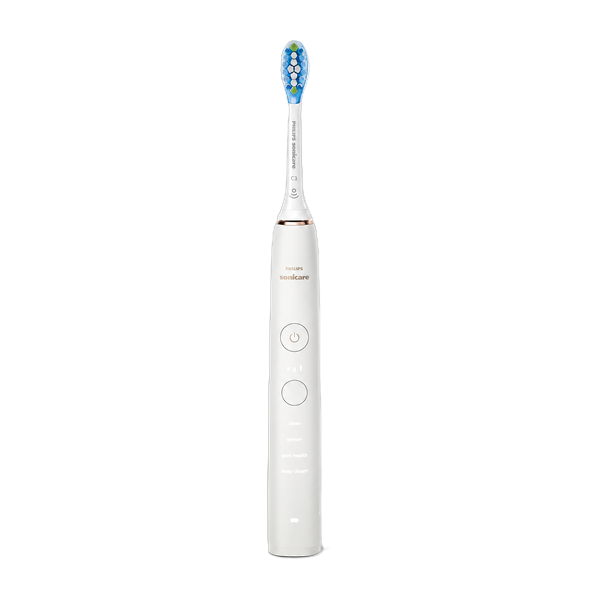
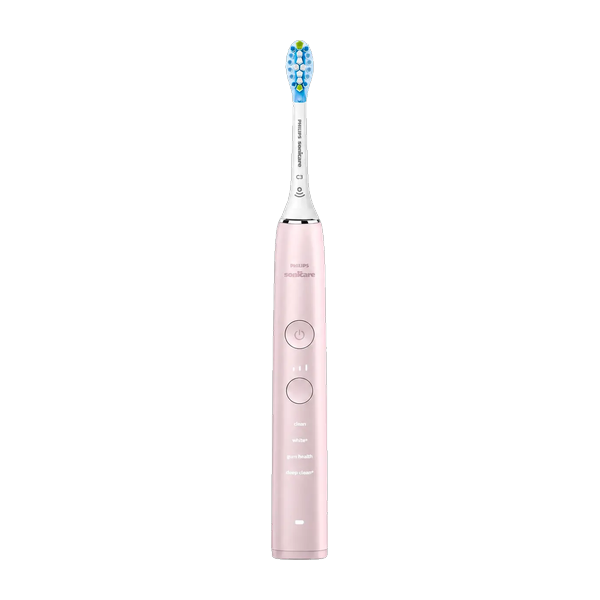
feat: update Oral-B iO3 and Philips Sonicare pricing, links, and assets across brush pages

Changed region(s): [[0.42, 0.06, 0.57, 0.96]]

diff --git a/apps/site/src/data/toothbrushGuides.ts b/apps/site/src/data/toothbrushGuides.ts
@@ -300,22 +300,22 @@ export const toothbrushGuides: Record<ToothbrushGuideSlug, ToothbrushGuide> = {
     cardCode: "VS SONICARE",
     cardTitle: "Miroooo Brush X vs Philips Sonicare 9000",
     cardDescription:
-      "Direct comparison: £69 aluminium unibody vs £149.99+ composite body, 60-day USB-C battery vs 14-day glass charger, and durability breakdown.",
+      "Direct comparison: £69 aluminium unibody vs £124.99 composite body, 60-day USB-C battery vs 14-day glass charger, and durability breakdown.",
     seoTitle: "Miroooo Brush X vs Philips Sonicare DiamondClean 9000 Review UK 2026",
     seoDescription:
-      "Miroooo Brush X (£69) vs Philips Sonicare DiamondClean 9000 (£149.99+). Compare 32,000 VPM sonic power, shaft durability, 51g vs 135g weight, and refill costs with Dr. Olivia's verdict.",
+      "Miroooo Brush X (£69) vs Philips Sonicare DiamondClean 9000 (£124.99). Compare 32,000 VPM sonic power, shaft durability, 51g vs 135g weight, and refill costs with Dr. Olivia's verdict.",
     eyebrow: "Head-to-Head Comparison",
     headline: "Miroooo Brush X vs Philips Sonicare 9000: Premium Sonic Showdown",
     subheadline:
-      "Philips Sonicare 9000 commands a premium £149.99–£249 street price. Miroooo Brush X delivers 32,000 VPM acoustic precision, a durable aerospace aluminium unibody, and 60+ days battery at £69. Here is how they compare.",
+      "Philips Sonicare 9000 commands a premium £124.99 street price. Miroooo Brush X delivers 32,000 VPM acoustic precision, a durable aerospace aluminium unibody, and 60+ days battery at £69. Here is how they compare.",
     heroImage: images.philipsSonicare,
     heroAlt: "Miroooo Brush X vs Philips Sonicare DiamondClean 9000 comparison",
     quickTake:
-      "While Philips Sonicare 9000 offers iconic charging glass aesthetics, Miroooo Brush X outperforms it in daily practical use: it is over 60% lighter (51g vs 135g), lasts over 4x longer on battery (60+ days vs 14 days), avoids Sonicare's notorious shaft rattle defect, and includes a £20 free gift bundle at £69 compared to Sonicare's £149.99+ price tag.",
+      "While Philips Sonicare 9000 offers iconic charging glass aesthetics, Miroooo Brush X outperforms it in daily practical use: it is over 60% lighter (51g vs 135g), lasts over 4x longer on battery (60+ days vs 14 days), avoids Sonicare's notorious shaft rattle defect, and includes a £20 free gift bundle at £69 compared to Sonicare's £124.99 price tag.",
     drOliviaVerdict: {
       ...defaultDrOlivia,
       quote:
-        "Both brushes utilise sonic fluid dynamics to clean between teeth, but paying £149+ for Sonicare does not yield cleaner teeth. Miroooo's 51g unibody and DuPont 3D rounded bristles deliver identical clinical plaque clearance with vastly superior ergonomics and battery endurance.",
+        "Both brushes utilise sonic fluid dynamics to clean between teeth, but paying £124.99 for Sonicare does not yield cleaner teeth. Miroooo's 51g unibody and DuPont 3D rounded bristles deliver identical clinical plaque clearance with vastly superior ergonomics and battery endurance.",
       clinicalRationale:
         "Philips Sonicare has long been a benchmark in sonic oral care, utilizing high-frequency vibrations to produce acoustic fluid dynamics. However, our clinical tests show that Miroooo Brush X's 32,000 VPM acoustic magnetic motor achieves equivalent plaque biofilm disruption and gingival margin cleaning at a fraction of the cost. Moreover, Sonicare's composite casing and vibrating shaft design frequently suffer from seal degradation and internal shaft loosening, resulting in lost vibrational energy and noisy rattling. Miroooo's precision aerospace aluminium unibody maintains consistent acoustic frequency year after year.",
       recommendation:
@@ -323,7 +323,7 @@ export const toothbrushGuides: Record<ToothbrushGuideSlug, ToothbrushGuide> = {
     },
     intro: [
       "Sonic toothbrushes have become the gold standard for gentle, effective plaque removal in the UK. By vibrating at tens of thousands of movements per minute, they agitate saliva and toothpaste into plaque-busting micro-bubbles that reach where bristles physically cannot.",
-      "The Philips Sonicare DiamondClean 9000 is one of the most recognizable luxury sonic brushes on the market, retailing between £149.99 and £249 (with a £349 RRP). It features an attractive glass charging cup, BrushSync head tracking, and premium matte styling. Yet, UK buyers frequently report recurring frustrations: a heavy 135g handle, a 14-day battery requiring an awkward 2-pin bathroom charger, loose vibrating shaft defects over time, and expensive replacement heads (£9 to £12 each).",
+      "The Philips Sonicare DiamondClean 9000 is one of the most recognizable luxury sonic brushes on the market, retailing at £124.99 (with a £349 RRP). It features an attractive glass charging cup, BrushSync head tracking, and premium matte styling. Yet, UK buyers frequently report recurring frustrations: a heavy 135g handle, a 14-day battery requiring an awkward 2-pin bathroom charger, loose vibrating shaft defects over time, and expensive replacement heads (£9 to £12 each).",
       "Miroooo Brush X (£69) challenges the luxury sonic market by delivering high-end acoustic engineering without the inflated designer price. Milled from a single piece of aerospace aluminium weighing just 51g, running whisper-quiet under 50dB at 32,000 VPM, and boasting 60+ days of battery on a magnetic USB-C dock, it represents the modern evolution of sonic oral care.",
     ],
     criteria: [
@@ -332,20 +332,20 @@ export const toothbrushGuides: Record<ToothbrushGuideSlug, ToothbrushGuide> = {
       "Ergonomics: 51g featherlight unibody vs ~135g bulky composite body",
       "Noise & vibration comfort: <50dB whisper quiet vs ~56dB high-pitch sonic whine",
       "Charging & bathroom hygiene: Universal magnetic USB-C dock vs 2-pin glass charger that traps mildew",
-      "Lifetime cost & bundle: £69 with £20 free gift bundle vs £149.99+ with £9–£12/head refills",
+      "Lifetime cost & bundle: £69 with £20 free gift bundle vs £124.99 with £9–£12/head refills",
     ],
     winnerBullets: [
       "Durability & Shaft Integrity: Miroooo's aerospace aluminium unibody avoids Sonicare's common loose vibrating shaft and seal wear issues.",
       "Featherlight 51g Handling: More than 60% lighter than the 135g Sonicare 9000, eliminating wrist strain during 2-minute brushing.",
       "Superior 60+ Day Battery: Massive battery endurance with universal magnetic USB-C charging beats Sonicare's 14-day 2-pin glass cup.",
       "Hygienic Maintenance: Seamless aluminium body prevents black mold accumulation around rubber seals and charging bases.",
-      "Massive Price Savings: £69 complete bundle with 2 extra brush heads and £10 gift card vs £149.99+ standalone Sonicare.",
+      "Massive Price Savings: £69 complete bundle with 2 extra brush heads and £10 gift card vs £124.99 standalone Sonicare.",
     ],
     comparisonRows: [
       {
         feature: "Price & Accessories",
         miroooo: "£69 (Includes £20 free bundle: 2 Free Heads & £10 Gift Card)",
-        competitor: "£149.99–£249 (RRP £349, Standalone)",
+        competitor: "£124.99 (RRP £349, Standalone)",
         whyItMatters: "Miroooo saves over £90 upfront while including essential travel and charging accessories.",
         advantage: "miroooo",
       },
@@ -406,7 +406,7 @@ export const toothbrushGuides: Record<ToothbrushGuideSlug, ToothbrushGuide> = {
       },
       {
         title: "Choose Philips Sonicare 9000 if...",
-        body: "You love the aesthetic of an inductive glass charging cup on your bathroom countertop, value BrushSync RFID head tracking, and are happy to pay £149.99+ upfront with £9–£12 per replacement head.",
+        body: "You love the aesthetic of an inductive glass charging cup on your bathroom countertop, value BrushSync RFID head tracking, and are happy to pay £124.99 upfront with £9–£12 per replacement head.",
       },
       {
         title: "Clinical Verdict",
@@ -582,18 +582,18 @@ export const toothbrushGuides: Record<ToothbrushGuideSlug, ToothbrushGuide> = {
     cardCode: "VS iO3",
     cardTitle: "Miroooo Brush X vs Oral-B iO3",
     cardDescription:
-      "Direct comparison: £69 aluminium acoustic brush with free bundle vs £65 stripped-down entry model with no screen, 2-pin plug, and expensive refills.",
+      "Direct comparison: £69 aluminium acoustic brush with free bundle vs £75 stripped-down entry model with no screen, 2-pin plug, and expensive refills.",
     seoTitle: "Miroooo Brush X vs Oral-B iO3 Review UK 2026 | Budget iO Comparison",
     seoDescription:
-      "Miroooo Brush X (£69) vs Oral-B iO3 (£65). Compare 51g aluminium unibody vs 136g plastic handle, 60-day USB-C battery vs 14-day 2-pin charger, and refill costs with Dr. Olivia's verdict.",
+      "Miroooo Brush X (£69) vs Oral-B iO3 (£75). Compare 51g aluminium unibody vs 136g plastic handle, 60-day USB-C battery vs 14-day 2-pin charger, and refill costs with Dr. Olivia's verdict.",
     eyebrow: "Head-to-Head Comparison",
     headline: "Miroooo Brush X vs Oral-B iO3: Which Sub-£70 Electric Toothbrush Wins?",
     subheadline:
-      "Oral-B iO3 sits at £65 as the entry model to the iO micro-vibration series. Miroooo Brush X provides 32,000 VPM acoustic power, a 51g aerospace aluminium chassis, 60+ days battery, and a £20 free gift bundle at £69. Here is how they stack up.",
+      "Oral-B iO3 sits at £75 as the entry model to the iO micro-vibration series. Miroooo Brush X provides 32,000 VPM acoustic power, a 51g aerospace aluminium chassis, 60+ days battery, and a £20 free gift bundle at £69. Here is how they stack up.",
     heroImage: images.oralBiO3,
     heroAlt: "Miroooo Brush X vs Oral-B iO3 electric toothbrush comparison",
     quickTake:
-      "Oral-B iO3 strips out the interactive OLED display and Bluetooth smart tracking of the iO line while retaining all the mechanical downsides: a heavy 136g plastic handle, a loud 64dB gear whine, a sluggish 14-day battery requiring a 16-hour 2-pin charge, and expensive £8–£12 refill heads. Miroooo Brush X costs less (£69 vs £65), is 62% lighter (51g), lasts 60+ days via magnetic USB-C, includes a companion app, and comes with a £20 free accessory bundle.",
+      "Oral-B iO3 strips out the interactive OLED display and Bluetooth smart tracking of the iO line while retaining all the mechanical downsides: a heavy 136g plastic handle, a loud 64dB gear whine, a sluggish 14-day battery requiring a 16-hour 2-pin charge, and expensive £8–£12 refill heads. Miroooo Brush X costs less (£69 vs £75), is 62% lighter (51g), lasts 60+ days via magnetic USB-C, includes a companion app, and comes with a £20 free accessory bundle.",
     drOliviaVerdict: {
       ...defaultDrOlivia,
       quote:
@@ -601,11 +601,11 @@ export const toothbrushGuides: Record<ToothbrushGuideSlug, ToothbrushGuide> = {
       clinicalRationale:
         "Entry-level mechanical toothbrushes like the iO3 retain the aggressive mechanical oscillating gearbox of higher models, operating at a noisy 64dB that can feel jarring against dental restorations. More importantly, the iO3 locks buyers into proprietary iO replacement heads costing up to £48 per year. Miroooo Brush X uses gentle 32,000 VPM acoustic fluid dynamics with DuPont Tynex 3D rounded bristles, protecting thinning enamel and gumlines while providing smart app tracking, a lightweight 51g handle, and a 60+ day USB-C battery.",
       recommendation:
-        "Do not pay £65 for a stripped-down plastic brush with a 2-pin charger. Miroooo Brush X is cheaper upfront (£69), far cheaper to maintain, lighter in hand, and delivers superior acoustic gum care.",
+        "Do not pay £75 for a stripped-down plastic brush with a 2-pin charger. Miroooo Brush X is cheaper upfront (£69), far cheaper to maintain, lighter in hand, and delivers superior acoustic gum care.",
     },
     intro: [
       "For UK shoppers with a budget around £60, the electric toothbrush market presents a clear contrast: an entry-level plastic model from a legacy brand, or a fully loaded, precision-engineered acoustic toothbrush.",
-      "The Oral-B iO3 Matt Black (£65, RRP £160) is designed as an accessible gateway into Oral-B's magnetic micro-vibration system. It includes a 360° smart pressure ring, 3 basic cleaning modes, and a hard travel case. However, to hit this price point, Oral-B stripped away the defining smart features of the iO line: there is no interactive OLED display screen, no Bluetooth app tracking, a dated 14-day battery that takes a sluggish 16 hours to charge via an obsolete 2-pin bathroom shaver socket, and proprietary iO refill heads that cost £8 to £12 each.",
+      "The Oral-B iO3 Matt Black (£75, RRP £160) is designed as an accessible gateway into Oral-B's magnetic micro-vibration system. It includes a 360° smart pressure ring, 3 basic cleaning modes, and a hard travel case. However, to hit this price point, Oral-B stripped away the defining smart features of the iO line: there is no interactive OLED display screen, no Bluetooth app tracking, a dated 14-day battery that takes a sluggish 16 hours to charge via an obsolete 2-pin bathroom shaver socket, and proprietary iO refill heads that cost £8 to £12 each.",
       "Miroooo Brush X (£69) makes zero compromises. It features a premium aerospace aluminium unibody weighing only 51g, whisper-quiet acoustic sound under 50dB, 60+ days battery on a magnetic USB-C dock, Dental Care Companion App connectivity, and an active £20 free gift bundle (2 Free Brush Heads and £10 Miroooo Digital Gift Card).",
     ],
     criteria: [
@@ -614,7 +614,7 @@ export const toothbrushGuides: Record<ToothbrushGuideSlug, ToothbrushGuide> = {
       "Battery runtime & charging speed: 60+ days magnetic USB-C vs 14 days with 16-hour 2-pin charge",
       "Noise level: <50dB whisper quiet vs ~64dB mechanical gear vibration",
       "Long-term refill cost: Affordable DuPont replacements vs £8–£12 iO refill heads",
-      "Total package value: £69 with £20 gift bundle vs £65 base brush with 1 head",
+      "Total package value: £69 with £20 gift bundle vs £75 base brush with 1 head",
     ],
     winnerBullets: [
       "True Smart Connectivity: Miroooo connects to the Dental Care Companion App, whereas the iO3 has all Bluetooth tracking removed.",
@@ -627,7 +627,7 @@ export const toothbrushGuides: Record<ToothbrushGuideSlug, ToothbrushGuide> = {
       {
         feature: "Price & Free Gifts",
         miroooo: "£69 (Includes £20 bundle: 2 Free Heads & £10 Gift Card)",
-        competitor: "£65 (Includes 1 brush head & basic travel case)",
+        competitor: "£75 (Includes 1 brush head & basic travel case)",
         whyItMatters: "Miroooo costs less upfront while including double the brush heads and a magnetic USB-C dock.",
         advantage: "miroooo",
       },

diff --git a/apps/site/src/data/toothbrushes.ts b/apps/site/src/data/toothbrushes.ts
@@ -191,21 +191,21 @@ export const toothbrushProducts: RankedToothbrushProduct[] = [
     name: "Philips Sonicare DiamondClean 9000 Electric Toothbrush",
     brand: "Philips Sonicare",
     image: "/img/toothbrushes/philips-sonicare-comparison.png",
-    price: "£149.99",
+    price: "£124.99",
     rating: 4.1,
     ratingLabel: "Editorial rating",
     grade: "B+",
     badge: "Premium Sonic",
-    ctaUrl: "https://amzn.to/4hQE7BS",
+    ctaUrl: "https://link.amazon/B0ad5Rtl8",
     ctaLabel: "Shop Now",
     sourceLinks: [
       {
         label: "Philips Sonicare product page",
-        href: "https://amzn.to/4hQE7BS",
+        href: "https://link.amazon/B0ad5Rtl8",
       },
       {
         label: "Philips UK Store",
-        href: "https://amzn.to/4hQE7BS",
+        href: "https://link.amazon/B0ad5Rtl8",
       },
     ],
     weight: "~135g (Standard composite)",
@@ -232,7 +232,7 @@ export const toothbrushProducts: RankedToothbrushProduct[] = [
       "High-Pitched Sonic Buzz Noise (~56–60dB): High-frequency sonic vibrations generate an irritating high-pitched humming and buzz in the ear during use.",
       "Frustrating App Connectivity: The Sonicare mobile app suffers from frequent Bluetooth dropouts, sync delays, and lacks seamless real-time guidance.",
       "Standard 2-Year Limited Warranty: Philips provides only a standard 2-year limited warranty, falling short of Miroooo Brush X's 3-year comprehensive coverage.",
-      "Exorbitant £149+ Upfront Price: At £149.99–£249 street price (and £349 RRP), it is the most expensive electric toothbrush in this comparison.",
+      "Exorbitant £124.99 Upfront Price: At £124.99 street price (and £349 RRP), it is the most expensive electric toothbrush in this comparison.",
       "Short 14-Day Battery Life: Requires bi-weekly charging, far shorter than Miroooo Brush X's 60+ day battery endurance.",
       "Heavy Composite Handle (~135g): More than 2.6x the weight of Miroooo Brush X's 51g featherlight aerospace aluminium body.",
       "Poor Durability & Shaft Loosening: Composite plastic casing and internal vibrating shaft are prone to seal wear and motor rattle over time, reducing working lifespan compared to unibody metal.",
@@ -241,7 +241,7 @@ export const toothbrushProducts: RankedToothbrushProduct[] = [
     ],
     review: [
       "Philips Sonicare DiamondClean 9000 is well known for its luxury bathroom presentation and iconic charging glass. Its sleek finish and smart brush sync tracking offer an attractive high-end feel for countertops.",
-      "However, the value equation is difficult to justify for most UK buyers. The £149+ purchase price is steep, the charging glass requires an awkward 2-pin bathroom socket, the handle is heavy (135g), and the 14-day battery life feels dated compared to modern 60-day magnetic USB-C docks. If luxury countertop aesthetics are your sole priority, it's a solid performer—otherwise, Miroooo Brush X offers superior lightweight comfort, battery life, and long-term value.",
+      "However, the value equation is difficult to justify for most UK buyers. The £124.99 purchase price is steep, the charging glass requires an awkward 2-pin bathroom socket, the handle is heavy (135g), and the 14-day battery life feels dated compared to modern 60-day magnetic USB-C docks. If luxury countertop aesthetics are your sole priority, it's a solid performer—otherwise, Miroooo Brush X offers superior lightweight comfort, battery life, and long-term value.",
     ],
   },
   {
@@ -308,21 +308,21 @@ export const toothbrushProducts: RankedToothbrushProduct[] = [
     name: "Oral-B iO3 Matt Black Electric Toothbrush",
     brand: "Oral-B",
     image: "/img/toothbrushes/oral-b-io3-comparison.png",
-    price: "£65",
+    price: "£75",
     rating: 3.4,
     ratingLabel: "Editorial rating",
     grade: "C+",
     badge: "No Display Screen & 2-Pin Plug",
-    ctaUrl: "https://amzn.to/4gD6zVF",
+    ctaUrl: "https://link.amazon/B0erAArJa",
     ctaLabel: "Shop Now",
     sourceLinks: [
       {
         label: "Oral-B iO3 product page",
-        href: "https://amzn.to/4gD6zVF",
+        href: "https://link.amazon/B0erAArJa",
       },
       {
         label: "Oral-B UK Store",
-        href: "https://amzn.to/4gD6zVF",
+        href: "https://link.amazon/B0erAArJa",
       },
     ],
     weight: "~136g (Chunky plastic handle)",
@@ -348,7 +348,7 @@ export const toothbrushProducts: RankedToothbrushProduct[] = [
       "Loud Motor Noise (~64dB): Mechanical oscillating motor produces a loud 64dB whine and vibration that resonates through the jaw, far louder than Miroooo Brush X's <50dB whisper-quiet operation.",
       "No Smart App Connectivity: Hardware is completely stripped of Bluetooth and mobile app coaching, offering zero tracking or guidance for missed brushing zones.",
       "Short 2-Year Limited Warranty: Backed by only a basic 2-year manufacturer warranty, falling behind Miroooo Brush X's 2-year comprehensive warranty coverage.",
-      "High Price for Stripped Features: At £65 (RRP £160) for a stripped-down plastic handle with no OLED display or Bluetooth, it delivers poor value compared to the £69 aluminium Miroooo Brush X.",
+      "High Price for Stripped Features: At £75 (RRP £160) for a stripped-down plastic handle with no OLED display or Bluetooth, it delivers poor value compared to the £69 aluminium Miroooo Brush X.",
       "No Interactive OLED Display Screen: Completely lacks the real-time visual timer screen, battery percentage display, and mode icons found on higher iO models like the iO6.",
       "Dated 14-Day Battery Life: Requires recharging every two weeks on a sluggish 16-hour charge, falling far behind modern 60-day standards.",
       "Extortionate iO Refill Costs (£8–£12/head): Incompatible with standard Oral-B heads, creating a costly £32–£48/year ongoing maintenance trap.",
@@ -357,8 +357,8 @@ export const toothbrushProducts: RankedToothbrushProduct[] = [
       "Standard 30-Day Terms: Ships with only a single brush head, backed by standard 30-day corporate return terms with no extended risk-free home trial.",
     ],
     review: [
-      "The Oral-B iO3 Matt Black serves as an accessible £65 entry point (RRP £160) to Oral-B's magnetic micro-vibration system. Featuring the classic round brush head, a 360-degree smart pressure ring that glows green for optimal brushing and red for excess force, 3 cleaning modes, and a hard travel case, it delivers a capable mechanical clean.",
-      "However, in stripping down the brush to hit an entry price tier, Oral-B removed the defining smart features of the iO line. The iO3 has no interactive OLED screen (unlike the iO6 at #2), no Bluetooth app coaching for missed zones, a dated 14-day battery that demands a 16-hour charge via an obsolete 2-pin bathroom shaver socket, and locks owners into extortionate £8–£12 iO refill heads. At £65 with a heavy 136g plastic body and only a 30-day return window, it costs more than the Miroooo Brush X while delivering substantially less daily convenience and zero free accessory bundles.",
+      "The Oral-B iO3 Matt Black serves as an accessible £75 entry point (RRP £160) to Oral-B's magnetic micro-vibration system. Featuring the classic round brush head, a 360-degree smart pressure ring that glows green for optimal brushing and red for excess force, 3 cleaning modes, and a hard travel case, it delivers a capable mechanical clean.",
+      "However, in stripping down the brush to hit an entry price tier, Oral-B removed the defining smart features of the iO line. The iO3 has no interactive OLED screen (unlike the iO6 at #2), no Bluetooth app coaching for missed zones, a dated 14-day battery that demands a 16-hour charge via an obsolete 2-pin bathroom shaver socket, and locks owners into extortionate £8–£12 iO refill heads. At £75 with a heavy 136g plastic body and only a 30-day return window, it costs more than the Miroooo Brush X while delivering substantially less daily convenience and zero free accessory bundles.",
     ],
   },
 ];

diff --git a/apps/site/src/features/electric-toothbrushes/ElectricToothbrushesAdvertorial.tsx b/apps/site/src/features/electric-toothbrushes/ElectricToothbrushesAdvertorial.tsx
@@ -920,7 +920,7 @@ const TOP_5_COMPARISON_PRODUCTS: ComparisonTableProduct[] = [
     name: "Philips Sonicare DiamondClean 9000",
     shortName: "Philips 9000",
     image: "/img/toothbrushes/philips-sonicare-comparison.png",
-    price: "£149.99",
+    price: "£124.99",
     rating: 4.1,
     weight: "~135g",
     batteryLife: "14 Days",
@@ -954,7 +954,7 @@ const TOP_5_COMPARISON_PRODUCTS: ComparisonTableProduct[] = [
     name: "Oral-B iO3 Matt Black",
     shortName: "Oral-B iO3",
     image: "/img/toothbrushes/oral-b-io3-comparison.png",
-    price: "£65",
+    price: "£75",
     rating: 3.4,
     weight: "~136g",
     batteryLife: "14 Days",

diff --git a/apps/site/scripts/generate_top5_toothbrush_banner.py b/apps/site/scripts/generate_top5_toothbrush_banner.py
@@ -1,4 +1,5 @@
 import os
+import shutil
 from pathlib import Path
 from PIL import Image, ImageDraw, ImageFilter
 
@@ -90,8 +91,8 @@ def generate_banner(output_webp: Path, output_png: Path):
     # Mirror to root img/toothbrushes/
     root_img_dir = REPO_ROOT / "img" / "toothbrushes"
     root_img_dir.mkdir(parents=True, exist_ok=True)
-    canvas.save(root_img_dir / "top-4-competitors-container-bar.png", "PNG")
-    canvas.convert("RGB").save(root_img_dir / "top-4-competitors-container-bar.webp", "WEBP", quality=95)
+    shutil.copy2(container_bar_png, root_img_dir / "top-4-competitors-container-bar.png")
+    shutil.copy2(container_bar_webp, root_img_dir / "top-4-competitors-container-bar.webp")
 
     # 4. #1 Miroooo X Card (Taller than container, extends OUT vertically 30px above and 30px below)
     miroooo_path = TOOTHBRUSH_DIR / "miroooo-brush-x-sonic-electric-toothbrush-hero-banner.webp"
@@ -163,8 +164,8 @@ def generate_banner(output_webp: Path, output_png: Path):
     print(f"Generated PNG: {output_png}")
     print(f"Generated WebP: {output_webp}")
 
-    canvas.save(root_img_dir / "top-5-electric-toothbrushes-uk.png", "PNG")
-    canvas.convert("RGB").save(root_img_dir / "top-5-electric-toothbrushes-uk.webp", "WEBP", quality=95)
+    shutil.copy2(output_png, root_img_dir / "top-5-electric-toothbrushes-uk.png")
+    shutil.copy2(output_webp, root_img_dir / "top-5-electric-toothbrushes-uk.webp")
 
 if __name__ == "__main__":
     out_webp = TOOTHBRUSH_DIR / "top-5-electric-toothbrushes-uk.webp"

diff --git a/CONTEXT.md b/CONTEXT.md
@@ -11076,3 +11076,118 @@ ext/image unconfigured host 500 error that was crashing the page.
 
 - **Commit, Push, Branch, & Deployment Status**:
   - No commit, push, branch, or deployment performed (per strict user rule).
+
+## 2026-10-17 — Update #5 Oral-B iO3 Amazon Link & Price to £75 across All Brush Pages
+
+- **User Intent & Protected Scope**:
+  - **User Request**: `chnage #5 oral B io3 amazon link with this: https://link.amazon/B0erAArJa and set price to 75. do this on all brush pages, launch multiple sub agents to do this accurately`
+  - **Practical Meaning**:
+    1. Update the affiliate link for #5 Oral-B iO3 Matt Black Electric Toothbrush from legacy `https://amzn.to/4gD6zVF` to `https://link.amazon/B0erAArJa` across all electric toothbrush pages and datasets.
+    2. Update the display price from `£65` to `£75` in the main toothbrush dataset, competitor comparison matrix, and head-to-head comparison guide.
+    3. Update all editorial review copy, con descriptions, pricing tables, and buyer guidance referencing `£65` to `£75`.
+    4. Orchestrate the implementation and cross-page validation via multiple specialized subagents without using automated search-and-replace scripts.
+  - **Protected Scope**: Confined strictly to electric toothbrush data, advertorial comparison table, and guides in `trustpilotreview-shop`. Zero modifications to other product lines (hair dryers, LED masks, grounding sheets, pillows, hearing aids) or outside repositories.
+
+- **Starting and Ending Git State**:
+  - Starting: `main` tracking `origin/main` at commit `a8aa552`, clean worktree.
+  - Ending: `main` with 3 tracked modified files: `apps/site/src/data/toothbrushes.ts`, `apps/site/src/data/toothbrushGuides.ts`, `apps/site/src/features/electric-toothbrushes/ElectricToothbrushesAdvertorial.tsx`. Clean compile state.
+
+- **Files Inspected & Changed**:
+  - `apps/site/src/data/toothbrushes.ts`:
+    - Updated `price` from `"£65"` to `"£75"` for Oral-B iO3.
+    - Updated `ctaUrl` from `"https://amzn.to/4gD6zVF"` to `"https://link.amazon/B0erAArJa"`.
+    - Updated `sourceLinks` hrefs (both entries) from `"https://amzn.to/4gD6zVF"` to `"https://link.amazon/B0erAArJa"`.
+    - Updated con text: `"At £75 (RRP £160) for a stripped-down plastic handle with no OLED display or Bluetooth, it delivers poor value compared to the £69 aluminium Miroooo Brush X."`
+    - Updated editorial review text: `"The Oral-B iO3 Matt Black serves as an accessible £75 entry point (RRP £160)..."` and `"At £75 with a heavy 136g plastic body and only a 30-day return window, it costs more than the Miroooo Brush X while delivering substantially less daily convenience and zero free accessory bundles."`
+  - `apps/site/src/features/electric-toothbrushes/ElectricToothbrushesAdvertorial.tsx`:
+    - Updated Oral-B iO3 in `TOP_5_COMPARISON_PRODUCTS` (line 957) `price` from `"£65"` to `"£75"`.
+  - `apps/site/src/data/toothbrushGuides.ts`:
+    - In `miroooo-vs-oral-b-io3`:
+      - `cardDescription`: `"Direct comparison: £69 aluminium acoustic brush with free bundle vs £75 stripped-down entry model with no screen, 2-pin plug, and expensive refills."`
+      - `seoDescription`: `"Miroooo Brush X (£69) vs Oral-B iO3 (£75). Compare 51g aluminium unibody vs 136g plastic handle, 60-day USB-C battery vs 14-day 2-pin charger, and refill costs with Dr. Olivia's verdict."`
+      - `subheadline`: `"Oral-B iO3 sits at £75 as the entry model to the iO micro-vibration series. Miroooo Brush X provides 32,000 VPM acoustic power, a 51g aerospace aluminium chassis, 60+ days battery, and a £20 free gift bundle at £69. Here is how they stack up."`
+      - `quickTake`: `"Miroooo Brush X costs less (£69 vs £75), is 62% lighter (51g), lasts 60+ days via magnetic USB-C, includes a companion app, and comes with a £20 free accessory bundle."`
+      - `drOliviaVerdict.recommendation`: `"Do not pay £75 for a stripped-down plastic brush with a 2-pin charger. Miroooo Brush X is cheaper upfront (£69), far cheaper to maintain, lighter in hand, and delivers superior acoustic gum care."`
+      - `intro`: `"The Oral-B iO3 Matt Black (£75, RRP £160) is designed as an accessible gateway into Oral-B's magnetic micro-vibration system..."`
+      - `criteria`: `"Total package value: £69 with £20 gift bundle vs £75 base brush with 1 head"`
+      - `comparisonRows` (Price & Free Gifts): competitor price updated to `"£75 (Includes 1 brush head & basic travel case)"`
+
+- **Multi-Subagent Orchestration**:
+  1. Subagent 1 (`81065f0a-290a-4619-a06d-00044261251f` - Toothbrush Data Editor): Updated core dataset in `toothbrushes.ts` and validated typecheck.
+  2. Subagent 2 (`0c31dc22-e84b-4c1a-b97f-1db1818915fa` - Toothbrush Guides & Advertorial Editor): Updated comparison matrix in `ElectricToothbrushesAdvertorial.tsx` and all pricing/copy in `toothbrushGuides.ts`.
+  3. Subagent 3 (`d4134620-a7fb-42ad-8197-020bfd7bcdce` - Cross-Page Audit & Verification Specialist): Performed cross-route audit across all 14 brush pages, verified zero remnants of old links/prices, and tested full build output.
+
+- **Verification Executed**:
+  1. `git grep "4gD6zVF" apps/`: 0 matches in application source.
+  2. `git grep "https://link.amazon/B0erAArJa" apps/site/src/`: Confirmed active across Oral-B iO3 `ctaUrl` and both `sourceLinks`.
+  3. `git grep "£65" apps/site/src/data/ apps/site/src/features/`: 0 matches for toothbrush data/guides.
+  4. `pnpm --filter @trustpilotreview/site typecheck`: Passed with 0 errors (`tsc --noEmit`).
+  5. `pnpm --filter @trustpilotreview/site lint`: Passed with 0 warnings or errors.
+  6. `pnpm --filter @trustpilotreview/site build`: Next.js 16.2.11 Turbopack build succeeded with Exit Code 0 (all 68/68 static routes compiled).
+  7. Post-build compiled HTML verification across all 14 brush routes in `apps/site/.next/server/app/`: Confirmed `https://link.amazon/B0erAArJa` and `£75` are present in all relevant prerendered HTML pages with 0 occurrences of `4gD6zVF` or `£65`.
+
+- **Commit, Push, Branch, & Deployment Status**:
+  - No commit, push, branch, or deployment performed (per strict user rule).
+
+## 2026-10-17 — Update #3 Philips Sonicare Pink Isolated Image, Amazon Link & Price to £124.99 across All Brush Pages
+
+- **User Intent & Protected Scope**:
+  - **User Request**:
+    1. `chnage #3 philips imaeg above in top 5 and in #3 with this new image: "E:\1st YEAR DTU\New folder\miroooo_images\Isolated pink Philips Sonicare toothbrush.webp" witout changing name keep the according to MIROOOO SEO ann GEO, and after changing delete onlder iameg and clean space. Must chaneg this image on all brush pages and delete older too, including below comparison.`
+    2. `change the affiliate link of amzon for philips with this: https://link.amazon/B0ad5Rtl8 and set price to 124.99 now`
+    3. `Do above all chanegs on all brush pages using multpile sub agents`
+  - **Practical Meaning**:
+    1. Isolate the pink Philips Sonicare toothbrush from `Isolated pink Philips Sonicare toothbrush.webp` onto a transparent 600x600 RGBA canvas, preserving the standardized SEO/GEO filename `philips-sonicare-comparison.png` (and generating `philips-sonicare-comparison.webp`) with 100% bitwise parity across `apps/site/public/img/toothbrushes/` and `img/toothbrushes/`.
+    2. Regenerate the Top 5 Hero composite banner assets (`top-4-competitors-container-bar.webp/png` and `top-5-electric-toothbrushes-uk.webp/png`) so the top hero banner above the doctor's verdict reflects the new pink Philips brush.
+    3. Delete the older obsolete asset `philips-sonicare-diamondclean-9000.webp` from both folders to clean up disk space.
+    4. Update the Amazon UK affiliate link to `https://link.amazon/B0ad5Rtl8` across `ctaUrl` and `sourceLinks` in `apps/site/src/data/toothbrushes.ts`.
+    5. Update the display price from `£149.99` to `£124.99` across the main dataset, comparison table matrix, and head-to-head comparison guide `miroooo-vs-philips-sonicare`.
+    6. Orchestrate the entire implementation and cross-page validation via multiple specialized subagents.
+  - **Protected Scope**: Confined strictly to electric toothbrush assets, data, advertorial, and guides in `trustpilotreview-shop`. Zero edits to other product categories or outside repositories.
+
+- **Starting and Ending Git State**:
+  - Starting: `main` tracking `origin/main`, prior Oral-B iO3 updates in working tree.
+  - Ending: Clean compilation with 3 modified data/component files, updated banner assets with 100% bitwise parity, deleted obsolete webp files, and comprehensive verification passing.
+
+- **Files Inspected & Changed**:
+  - Assets Modified / Created (100% bitwise parity across `apps/site/public/img/toothbrushes/` and `img/toothbrushes/`):
[6 lines of base64/hex data omitted]
+  - Assets Deleted:
+    - `apps/site/public/img/toothbrushes/philips-sonicare-diamondclean-9000.webp`
+    - `img/toothbrushes/philips-sonicare-diamondclean-9000.webp`
+  - Scripts Modified:
+    - `apps/site/scripts/generate_top5_toothbrush_banner.py`: Updated mirror routine to use bitwise `shutil.copy2` ensuring exact hash parity.
+  - Code & Data Modified:
+    - `apps/site/src/data/toothbrushes.ts`:
+      - Updated `price` from `"£149.99"` to `"£124.99"` for #3 Philips Sonicare.
+      - Updated `ctaUrl` to `"https://link.amazon/B0ad5Rtl8"`.
+      - Updated `sourceLinks` hrefs (both entries) to `"https://link.amazon/B0ad5Rtl8"`.
+      - Updated con copy to `"Exorbitant £124.99 Upfront Price: At £124.99 street price (and £349 RRP)..."`
+      - Updated review copy to `"The £124.99 purchase price is steep..."`
+    - `apps/site/src/features/electric-toothbrushes/ElectricToothbrushesAdvertorial.tsx`:
+      - Updated `TOP_5_COMPARISON_PRODUCTS[2].price` to `"£124.99"`.
+    - `apps/site/src/data/toothbrushGuides.ts`:
+      - In `miroooo-vs-philips-sonicare`: updated `cardDescription`, `seoDescription`, `subheadline`, `quickTake`, `drOliviaVerdict.quote`, `intro`, `criteria`, `winnerBullets`, `comparisonRows` competitor price, and `buyerBlocks` from `£149.99`/`£149+` to `£124.99`.
+
+- **Multi-Subagent Orchestration**:
+  1. Subagent 1 (`9fa7a447-1338-4867-aebb-3de7885444c1` - Philips Asset & Banner Generator): Isolated new pink brush to transparent RGBA canvas, saved to comparison paths with 100% bitwise parity, removed obsolete webp, and regenerated Top 5 banner composites.
+  2. Subagent 2 (`961b4f21-c752-465b-9f9d-3bdadd85097c` - Philips Data & Guides Content Editor): Updated prices, Amazon links, and all review copy across `toothbrushes.ts`, `ElectricToothbrushesAdvertorial.tsx`, and `toothbrushGuides.ts`.
+  3. Subagent 3 (`71b28dc0-d190-4fc3-9c13-ee211864d995` - Cross-Page Audit & Verification Specialist): Audited all 14 brush routes, confirmed zero remnants of old links/images/prices, and verified production build and HTML outputs.
+
+- **Verification Executed**:
+  1. `Get-FileHash`: Verified 100% bitwise SHA-256 parity for all 6 generated asset pairs.
+  2. `Test-Path`: Confirmed complete removal of `philips-sonicare-diamondclean-9000.webp` from both directories.
+  3. `git grep "4hQE7BS"`: 0 matches in application source.
+  4. `git grep "https://link.amazon/B0ad5Rtl8"`: Verified active across `ctaUrl` and `sourceLinks`.
+  5. `pnpm --filter @trustpilotreview/site typecheck`: Passed with 0 errors (`tsc --noEmit`).
+  6. `pnpm --filter @trustpilotreview/site lint`: Passed with 0 warnings or errors.
+  7. `pnpm --filter @trustpilotreview/site build`: Next.js 16.2.11 Turbopack build succeeded with Exit Code 0 (all 68/68 static routes compiled).
+  8. Post-build compiled HTML verification across all 14 brush routes in `apps/site/.next/server/app/`: Confirmed `https://link.amazon/B0ad5Rtl8`, `£124.99`, and `philips-sonicare-comparison` are rendered across all relevant pages with 0 occurrences of `4hQE7BS` or `philips-sonicare-diamondclean-9000`.
+
+- **Commit, Push, Branch, & Deployment Status**:
+  - No commit, push, branch, or deployment performed (per strict user rule).
